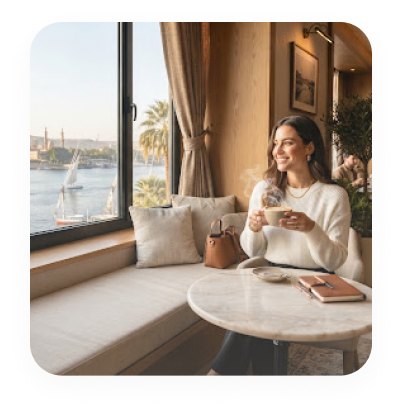
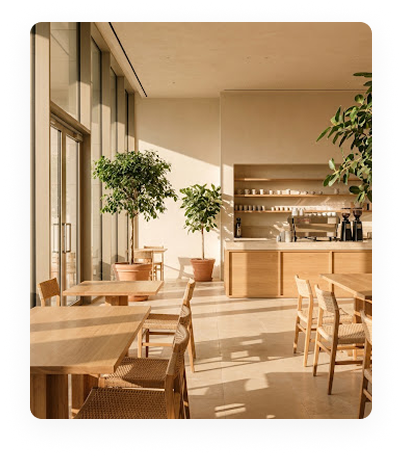
Refactor code structure for improved readability and maintainability

diff --git a/lib/features/auth/presentation/view/screens/auth_screen.dart b/lib/features/auth/presentation/view/screens/auth_screen.dart
@@ -6,6 +6,7 @@ import 'package:madinaty_app_ieee_2026/core/routes/app_routes.dart';
 import 'package:madinaty_app_ieee_2026/core/theme/app_colors.dart';
 import 'package:madinaty_app_ieee_2026/core/utils/app_toast.dart';
 import 'package:toastification/toastification.dart';
+
 import '../../../data/data_sources/auth_data_source_imp.dart';
 import '../../../data/repositories/auth_repo_imp.dart';
 import '../../../domain/use_cases/google_signin_usecase.dart';
@@ -15,9 +16,11 @@ import '../../../domain/use_cases/register_usecase.dart';
 import '../../../domain/use_cases/reset_password_usecase.dart';
 import '../../../domain/use_cases/send_otp_usecase.dart';
 import '../../../domain/use_cases/verify_otp_usecase.dart';
+
 import '../../view_model/auth_cubit.dart';
 import '../../view_model/auth_intent.dart';
 import '../../view_model/auth_state.dart';
+
 import '../widgets/custom_auth_button.dart';
 import '../widgets/custom_text_field.dart';
 import 'forget_password_screen.dart';
@@ -54,6 +57,7 @@ class _AuthScreenBody extends StatefulWidget {
 
 class _AuthScreenBodyState extends State<_AuthScreenBody> {
   bool isLogin = true;
+
   final _formKey = GlobalKey<FormState>();
 
   final _nameController = TextEditingController();
@@ -114,6 +118,7 @@ class _AuthScreenBodyState extends State<_AuthScreenBody> {
           );
         } else if (state is AuthSuccessState) {
           final userName = state.user.name ?? '';
+
           AppToast.showToast(
             context: context,
             title: AppLocale.toastSuccess.getString(context),
@@ -121,7 +126,10 @@ class _AuthScreenBodyState extends State<_AuthScreenBody> {
                 '${AppLocale.welcomeUserPrefix.getString(context)} $userName',
             type: ToastificationType.success,
           );
-          Navigator.pushReplacementNamed(context, AppRoutes.home);
+
+          // After successful authentication,
+          // go to Personalization before entering Home.
+          Navigator.pushReplacementNamed(context, AppRoutes.personalization);
         }
       },
       builder: (context, state) {
@@ -174,17 +182,21 @@ class _AuthScreenBodyState extends State<_AuthScreenBody> {
                           ),
                           onPressed: () {
                             final localization = FlutterLocalization.instance;
+
                             if (localization.currentLocale?.languageCode ==
                                 'ar') {
                               localization.translate('en');
                             } else {
                               localization.translate('ar');
                             }
+
                             setState(() {});
                           },
                         ),
                       ),
+
                       const SizedBox(height: 10),
+
                       Container(
                         padding: const EdgeInsets.all(12),
                         decoration: const BoxDecoration(
@@ -197,7 +209,9 @@ class _AuthScreenBodyState extends State<_AuthScreenBody> {
                           size: 28,
                         ),
                       ),
+
                       const SizedBox(height: 16),
+
                       Text(
                         isLogin
                             ? AppLocale.welcome.getString(context)
@@ -209,7 +223,9 @@ class _AuthScreenBodyState extends State<_AuthScreenBody> {
                           color: AppColors.textPrimary,
                         ),
                       ),
+
                       const SizedBox(height: 6),
+
                       Text(
                         AppLocale.subtitle.getString(context),
                         style: const TextStyle(
@@ -217,7 +233,9 @@ class _AuthScreenBodyState extends State<_AuthScreenBody> {
                           fontSize: 13,
                         ),
                       ),
+
                       const SizedBox(height: 20),
+
                       Container(
                         padding: const EdgeInsets.all(20),
                         decoration: BoxDecoration(
@@ -263,6 +281,7 @@ class _AuthScreenBodyState extends State<_AuthScreenBody> {
                                       ),
                                     ),
                                   ),
+
                                   Expanded(
                                     child: GestureDetector(
                                       onTap: () =>
@@ -295,7 +314,9 @@ class _AuthScreenBodyState extends State<_AuthScreenBody> {
                                 ],
                               ),
                             ),
+
                             const SizedBox(height: 20),
+
                             if (!isLogin) ...[
                               CustomTextField(
                                 controller: _nameController,
@@ -311,6 +332,7 @@ class _AuthScreenBodyState extends State<_AuthScreenBody> {
                               ),
                               const SizedBox(height: 14),
                             ],
+
                             CustomTextField(
                               controller: _emailOrPhoneController,
                               label: AppLocale.emailOrPhone.getString(context),
@@ -323,7 +345,9 @@ class _AuthScreenBodyState extends State<_AuthScreenBody> {
                                   ? AppLocale.enterEmailError.getString(context)
                                   : null,
                             ),
+
                             const SizedBox(height: 14),
+
                             CustomTextField(
                               controller: _passwordController,
                               label: AppLocale.password.getString(context),
@@ -335,6 +359,7 @@ class _AuthScreenBodyState extends State<_AuthScreenBody> {
                                     )
                                   : null,
                             ),
+
                             if (!isLogin) ...[
                               const SizedBox(height: 14),
                               CustomTextField(
@@ -352,6 +377,7 @@ class _AuthScreenBodyState extends State<_AuthScreenBody> {
                                     : null,
                               ),
                             ],
+
                             if (isLogin)
                               Align(
                                 alignment: AlignmentDirectional.centerStart,
@@ -376,7 +402,9 @@ class _AuthScreenBodyState extends State<_AuthScreenBody> {
                                   ),
                                 ),
                               ),
+
                             const SizedBox(height: 16),
+
                             CustomAuthButton(
                               text: isLogin
                                   ? AppLocale.login.getString(context)
@@ -384,7 +412,9 @@ class _AuthScreenBodyState extends State<_AuthScreenBody> {
                               isLoading: isLoading,
                               onPressed: _submit,
                             ),
+
                             const SizedBox(height: 16),
+
                             Row(
                               children: [
                                 const Expanded(child: Divider()),
@@ -403,7 +433,9 @@ class _AuthScreenBodyState extends State<_AuthScreenBody> {
                                 const Expanded(child: Divider()),
                               ],
                             ),
+
                             const SizedBox(height: 16),
+
                             OutlinedButton(
                               onPressed: isLoading
                                   ? null
@@ -439,7 +471,9 @@ class _AuthScreenBodyState extends State<_AuthScreenBody> {
                                 ],
                               ),
                             ),
+
                             const SizedBox(height: 12),
+
                             TextButton(
                               onPressed: () =>
                                   setState(() => isLogin = !isLogin),

diff --git a/lib/features/onboarding/presentation/view/screens/splash_screen.dart b/lib/features/onboarding/presentation/view/screens/splash_screen.dart
@@ -3,14 +3,17 @@ import 'package:flutter/material.dart';
 import 'package:flutter_bloc/flutter_bloc.dart';
 import 'package:flutter_localization/flutter_localization.dart';
 import 'package:get_it/get_it.dart';
+
+import 'package:madinaty_app_ieee_2026/core/di/injection_container.dart';
 import 'package:madinaty_app_ieee_2026/core/localization/app_locale.dart';
 import 'package:madinaty_app_ieee_2026/core/theme/app_colors.dart';
-import '../../../../../core/di/injection_container.dart';
-import '../../../../auth/presentation/view/screens/auth_screen.dart';
+
 import '../../../../discovery/presentation/view_model/cubit/discovery_cubit.dart';
 import '../../../../personalization/presentation/view/screens/personalization_screen.dart';
 import '../../../domain/use_cases/is_onboarding_seen.dart';
 import 'onboarding_screen.dart';
+
+import '../../../../auth/presentation/view/screens/auth_screen.dart';
 
 class SplashScreen extends StatefulWidget {
   const SplashScreen({super.key});
@@ -50,36 +53,67 @@ class _SplashScreenState extends State<SplashScreen>
   }
 
   Future<void> _handleNavigation() async {
+    print('========== SPLASH START ==========');
+
     await Future.delayed(const Duration(seconds: 2));
+
+    print('1 - Delay finished');
 
     if (!mounted) return;
 
+    print('2 - Getting onboarding status');
+
     final isOnboardingSeen = await GetIt.I<IsOnboardingSeen>().call();
+
+    print('3 - Onboarding seen: $isOnboardingSeen');
 
     if (!mounted) return;
 
     if (!isOnboardingSeen) {
+      print('4 - Going to Onboarding');
+
       Navigator.pushReplacement(
         context,
         MaterialPageRoute(builder: (_) => const OnboardingScreen()),
       );
+
       return;
     }
 
+    print('5 - Checking Firebase user');
+
     final currentUser = FirebaseAuth.instance.currentUser;
+
+    print('6 - Current user: $currentUser');
 
     if (!mounted) return;
 
     if (currentUser != null) {
+      print('7 - User logged in');
+      print('8 - Getting DiscoveryCubit');
+
+      final discoveryCubit = sl<DiscoveryCubit>();
+
+      print('9 - DiscoveryCubit created');
+      print('10 - Current location: ${discoveryCubit.currentLocation}');
+
       Navigator.pushReplacement(
         context,
         MaterialPageRoute(
-          builder: (_) => PersonalizationScreen(
-            userLocation: sl<DiscoveryCubit>().currentLocation,
+          builder: (_) => BlocProvider<DiscoveryCubit>.value(
+            value: discoveryCubit,
+            child: PersonalizationScreen(
+              userLocation: discoveryCubit.currentLocation,
+            ),
           ),
         ),
       );
+
+      print('11 - Navigation to Personalization done');
     } else {
+      print('7 - User NOT logged in');
+      print('8 - Going to Auth');
+
       Navigator.pushReplacement(
         context,
         MaterialPageRoute(builder: (_) => const AuthScreen()),
@@ -113,7 +147,9 @@ class _SplashScreenState extends State<SplashScreen>
                 ),
               ),
             ),
+
             const SizedBox(height: 28),
+
             FadeTransition(
               opacity: _textAnimation,
               child: Column(
@@ -126,7 +162,9 @@ class _SplashScreenState extends State<SplashScreen>
                       color: AppColors.textPrimary,
                     ),
                   ),
+
                   const SizedBox(height: 4),
+
                   const Text(
                     'MADINATY',
                     style: TextStyle(
